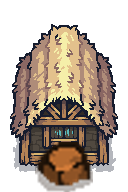
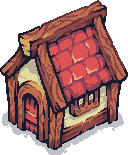
Dorf nach Editor-Layout + Tiefen-Sortierung & Kollision + wandernde Schafe + Reset-Fix + Dev-Cheats + Schmiede-Sprite (mid:6717-6748)

diff --git a/index.html b/index.html
@@ -80,6 +80,17 @@
   #cheatBtn{margin-top:14px;width:100%;cursor:pointer;color:#8fe3b0;background:rgba(18,30,22,.7);
     border:1px dashed #3f7a55;border-radius:10px;padding:9px;font-size:12.5px;font-weight:700}
   #cheatBtn:active{transform:scale(.98)}
+  .devbtn{margin-top:7px;width:100%;cursor:pointer;color:#8fe3b0;background:rgba(18,30,22,.7);border:1px dashed #3f7a55;border-radius:10px;padding:9px;font-size:12.5px;font-weight:700}
+  .devbtn:active{transform:scale(.98)}
+  #devCheats .dh{margin-top:14px;font-size:10px;font-weight:800;letter-spacing:.5px;color:#6fae86;text-transform:uppercase}
+  #confirmOv{position:fixed;inset:0;background:rgba(6,4,14,.7);display:none;align-items:center;justify-content:center;pointer-events:auto;z-index:120;padding:18px}
+  #confirmOv.open{display:flex}
+  #confirmCard{background:#1a2230;border:1px solid #3a4a5e;border-radius:16px;padding:20px;max-width:340px;text-align:center;box-shadow:0 14px 40px rgba(0,0,0,.6)}
+  #confirmMsg{color:#e7eef7;font-size:15px;line-height:1.4;margin-bottom:16px}
+  #confirmBtns{display:flex;gap:10px;justify-content:center}
+  #confirmBtns button{padding:11px 16px;border-radius:10px;font-weight:700;font-size:14px;cursor:pointer;border:1px solid #3a4a5e;background:#222d3a;color:#e7eef7}
+  #confirmYes{background:#c0392b;border-color:#e0584a;color:#fff}
+  #confirmBtns button:active{transform:scale(.97)}
   #achOverlay{position:absolute;inset:0;background:rgba(6,4,14,.62);backdrop-filter:blur(4px);
     display:none;align-items:center;justify-content:center;pointer-events:auto;z-index:20;padding:18px}
   #achOverlay.open{display:flex}
@@ -189,6 +200,7 @@
     <div id="achHead"><span>🏆 Erfolge</span><button id="achClose" title="Schliessen"></button></div>
     <div id="achList"></div>
   </div></div>
+  <div id="confirmOv"><div id="confirmCard"><div id="confirmMsg"></div><div id="confirmBtns"><button id="confirmYes">Ja, neu anfangen</button><button id="confirmNo">Abbrechen</button></div></div></div>
   <div id="charSelect"><div id="charCard">
     <div class="ch-title">Willkommen, Fremder.</div>
     <div class="ch-sub">Der Älteste: „Wähle, wer du sein willst — jede Wahl bleibt dein ganzes Leben."</div>
@@ -479,6 +491,11 @@ function updateCombat(s,dt){ const P=s.player; P.attacking=false;
 const VILLAGE_R=Math.round(280*VS);  // innerer Dorf-KERN (Ring-Weg + Produktionsgebäude) — skaliert mit VS
 const OUTER_R=Math.round(400*VS);    // äußerer Ring-Weg (mid:6176); Band VILLAGE_R..OUTER_R = 12 Turm-Bauplätze — skaliert mit VS
 const TOWER_N=12, TOWER_RAD=Math.round((280+400)/2*VS);   // 12 Turm-Bauplätze im äußeren Ring-Band — skaliert mit VS
+// ----- Dorf-Layout aus s Editor-Entwurf (mid:6717-6730): Gebäude+Deko an exakten Positionen (Offset von BASE in Welt-Px) + Größe (worldSprite size-param) -----
+const VLAYOUT={ base:{dx:-0.6,dy:-16.6}, holz:{dx:63.3,dy:106.4,sz:163}, stein:{dx:116.9,dy:-8.3,sz:163}, juwelier:{dx:-114.7,dy:0.3,sz:161}, waffenkammer:{dx:-60.4,dy:98.1,sz:140}, gold:{dx:-53.7,dy:-98.1,sz:115}, schmiede:{dx:63.9,dy:-112.5,sz:118} };
+const buildPos=b=>{ const L=VLAYOUT[b.type]; return L?{x:BASE.x+L.dx,y:BASE.y+L.dy}:{x:BASE.x,y:BASE.y}; };
+const BASE_STAGE_H=[126,128,131,135,139,143,146];   // Burg-Höhe je Stufe: minimal ansteigend, Anker Stufe 7 = s Größe (mid:6726)
+const VILLAGE_DECO=[{s:"vd_bushe1",dx:116.9,dy:115.0,sz:45.6},{s:"vd_bushe3",dx:60.4,dy:55.0,sz:53.0},{s:"vd_bushe4",dx:-151.4,dy:-47.0,sz:39.2},{s:"vd_bushe4",dx:-116.9,dy:-45.4,sz:31.3},{s:"vd_rock3",dx:150.5,dy:-60.4,sz:41.7},{s:"vd_rock3",dx:157.2,dy:25.9,sz:41.7},{s:"vd_stump2",dx:33.5,dy:-153.7,sz:20.8},{s:"vd_rock1",dx:-108.6,dy:-114.1,sz:60.4},{s:"vd_stump2",dx:125.6,dy:95.8,sz:23.3},{s:"vd_tree1",dx:36.1,dy:141.9,sz:106.0},{s:"vd_tree4",dx:-28.4,dy:58.5,sz:59.1},{s:"vd_bushe3",dx:76.0,dy:62.0,sz:42.3},{s:"vd_tree1",dx:146.3,dy:-70.6,sz:75.5},{s:"vd_bushe1",dx:131.0,dy:48.2,sz:45.6},{s:"vd_bushe1",dx:141.5,dy:59.1,sz:36.3},{s:"vd_rock1",dx:-25.9,dy:-155.0,sz:75.7},{s:"vd_rock1",dx:-49.2,dy:-148.2,sz:34.2},{s:"vd_goldstone",dx:-32.9,dy:-141.9,sz:38.7},{s:"vd_rock1",dx:-21.7,dy:-135.8,sz:60.4},{s:"vd_goldstone",dx:-116.6,dy:-94.2,sz:38.7},{s:"vd_tree4",dx:-145.7,dy:49.8,sz:59.1},{s:"vd_bushe3",dx:-146.6,dy:-69.3,sz:42.3}];
 // Ressourcen/Wasser liegen DRAUSSEN im Land; der erschlossene Land-Radius wächst mit s.areas
 const areaRadius=s=>2000+(((s.areas||1)-1)*600);  // sanftere Erweiterung (mid:6596): 2400,3250,4100,4950 (vorher zu krass +2400/Schritt)
 
@@ -504,8 +521,9 @@ const A={};  // alle fertigen Sprites
 ['era0','era1','era2','era3','era4','era5','era6','sawmill','quarry','worker',
  'hero0','hero1','hero2','hero3','hero4',
  'holz','stein','korn','pilze','gold','beeren','kristall',
- 'deco_mushroom','deco_rock','deco_bush','deco_pumpkin','sheep',
- 'b_holz','b_korn','b_pilze','b_beeren','b_schmiede','b_juwelier','b_waffen'   // eigene Produzenten-Sprites (mid:6317/6346)
+ 'deco_mushroom','deco_rock','deco_bush','deco_pumpkin','sheep','sheep_idle','sheep_move',
+ 'b_holz','b_korn','b_pilze','b_beeren','b_schmiede','b_juwelier','b_waffen',   // eigene Produzenten-Sprites (mid:6317/6346)
+ 'vd_bushe1','vd_bushe3','vd_bushe4','vd_rock1','vd_rock3','vd_stump2','vd_tree1','vd_tree4','vd_goldstone'   // Dorf-Deko aus s Layout (mid:6730)
 ].forEach(k=>{ const i=new Image(); i.src='ts/'+k+'.png'; A[k]=i; });
 // Animierte Held-Sheets (Tiny Swords Warrior, 192px-Frames, 6 Spalten × 8 Reihen). Pro Startcharakter eine Farbe.
 // Animierte Einheiten (Tiny Swords v2 Free Pack): pro (Unit,Farbe) je Anim-Strip (idle/run/atk), 192px-Frames horizontal.
@@ -627,6 +645,11 @@ function collide(s,o,r){ resolve(o,BASE.x,BASE.y,BASE_SOLID+r); for(const ob of 
   const lr=areaRadius(s)-r-6, dB=dist(o.x,o.y,BASE.x,BASE.y);
   if(dB>lr){ o.x=BASE.x+(o.x-BASE.x)/dB*lr; o.y=BASE.y+(o.y-BASE.y)/dB*lr; }
   o.x=Math.max(8,Math.min(WORLD-8,o.x)); o.y=Math.max(8,Math.min(WORLD-8,o.y)); }
+// Held aus Dorf-Gebäuden + großer Deko rausdrücken — kleine Hitboxen am Fuß, läuft drumrum statt durch (mid:6735)
+function villageCollide(s,o,r){
+  resolve(o, BASE.x+VLAYOUT.base.dx, BASE.y+VLAYOUT.base.dy+6, 60+r);                 // Burg (Hitbox etwas größer, mid:6743)
+  for(const b of s.builds){ const p=buildPos(b); resolve(o, p.x, p.y+6, 26+r); }       // Produzenten
+  for(const dd of VILLAGE_DECO){ if(dd.sz<42) continue; resolve(o, BASE.x+dd.dx, BASE.y+dd.dy+dd.sz*SC*0.22, dd.sz*SC*0.20+r); } }   // größere Bäume/Felsen
 // Einheiten-Hitboxen (mid:6613): überlappende mobile Einheiten auseinanderdrücken (Held bleibt fix, schiebt nur andere)
 function separateUnits(s){ const L=[]; const add=(e,r,fix)=>{ if(e&&!e.dead) L.push({e,r,fix:!!fix}); };
   add(s.player,15,true);
@@ -674,7 +697,7 @@ function buildLevel(s){
   s.towerSlots=[]; for(let i=0;i<TOWER_N;i++){ const a=(i+0.5)/TOWER_N*6.2832-Math.PI/2; s.towerSlots.push({x:BASE.x+Math.cos(a)*TOWER_RAD,y:BASE.y+Math.sin(a)*TOWER_RAD,tower:null}); }
   // Dorf-Leben: nur Schafe (Deko-Hütten raus — Häuser kommen als Produktionsgebäude pro Zeitalter)
   s.village=[];
-  for(let i=0;i<4;i++){ const a=rnd(0,6.28),d=rnd(60,VILLAGE_R-95); s.village.push({key:'sheep',x:BASE.x+Math.cos(a)*d,y:BASE.y+Math.sin(a)*d,size:32,wob:rnd(0,6.28)}); }
+  for(let i=0;i<5;i++){ const a=rnd(0,6.28),d=rnd(60,VILLAGE_R-110), x=BASE.x+Math.cos(a)*d, y=BASE.y+Math.sin(a)*d; s.village.push({key:'sheep',x,y,hx:x,hy:y,tx:x,ty:y,moving:false,face:1,animT:rnd(0,3),wt:rnd(1,5),size:36}); }   // wandernde, animierte Schafe (mid:6746)
   s.deco=[];
   // Deko in NATÜRLICHEN KLUMPEN statt gleichmäßigem Streuen (mid:6229): Wäldchen mit großen Bäumen eng zusammen,
   // Felsfelder (viele Brocken + ein paar große solide), Wiesen offener mit Kürbissen/Pilzen. → volle, „gebaute" Karte.
@@ -961,6 +984,9 @@ const game={
     document.getElementById('nameBtn').onclick=()=>this.confirmName();
     document.getElementById('quest').onclick=function(){ this.classList.toggle('expanded'); };   // Ziel ausklappen (mid:6371)
     document.getElementById('resetBtn').onclick=()=>this.reset();
+    document.getElementById('confirmYes').onclick=()=>this.doReset();
+    document.getElementById('confirmNo').onclick=()=>document.getElementById('confirmOv').classList.remove('open');
+    document.getElementById('confirmOv').onclick=e=>{ if(e.target.id==='confirmOv') document.getElementById('confirmOv').classList.remove('open'); };
     document.getElementById('pauseBtn').innerHTML=svg('pause');
     document.getElementById('resetBtn').innerHTML=svg('reset');
     loadAudioPrefs();   // Musik/SFX-Schalter aus localStorage (mid:6471)
@@ -988,8 +1014,17 @@ const game={
     // Cheat-Button nur im Dev-Modus (URL ?dev=1) — normale Spieler sehen ihn nicht; Entwickler nutzt die Dev-URL.
     const DEV=new URLSearchParams(location.search).has('dev');
     const cb=document.getElementById('cheatBtn');
-    if(DEV){ cb.onclick=()=>{ const s=this.s; activeKeys(s.era).forEach(k=>s.store[k]+=50);
-      say('Cheat: +50 auf alle aktuellen Ressourcen.'); this.renderRes(); this.updateShop(); saveGame(s); }; }
+    if(DEV){ const s=this.s, refresh=()=>{ this.renderRes(); this.updateShop(); this.renderTutStep&&this.renderTutStep(); saveGame(s); };
+      cb.onclick=()=>{ activeKeys(s.era).forEach(k=>s.store[k]+=50); say('Cheat: +50 auf alle Ressourcen.'); refresh(); };
+      const wrap=document.createElement('div'); wrap.id='devCheats'; const hd=document.createElement('div'); hd.className='dh'; hd.textContent='🛠 Test-Cheats (nur Dev)'; wrap.appendChild(hd);
+      cb.parentNode.insertBefore(wrap, cb.nextSibling);
+      const endNight=()=>{ if(nightActive(s)){ s.phase='day'; s.enemies=(s.enemies||[]).filter(e=>!e.night); s.baseHP=s.baseHPmax||100; } };
+      const mk=(txt,fn)=>{ const x=document.createElement('button'); x.className='devbtn'; x.textContent=txt; x.onclick=()=>{ fn(); refresh(); }; wrap.appendChild(x); };
+      mk('💰 +50.000 auf alle Ressourcen', ()=>{ activeKeys(s.era).forEach(k=>s.store[k]=(s.store[k]||0)+50000); say('Cheat: +50.000 Ressourcen.'); });
+      mk('⬆ Stufe +1 (Nacht überspringen)', ()=>{ endNight(); if(s.era<ERAS.length-1){ s.era++; const e=ERAS[s.era]; if(e.gather)s.gather+=e.gather; s.nightToken=true; say('Cheat: Stufe '+(s.era+1)+'.'); } else say('Schon auf Stufe 7.'); });
+      mk('🏰 Sprung ins Late Game (Stufe 7 + alle Gebäude)', ()=>{ endNight(); s.era=ERAS.length-1; s.nightToken=true; let g=0; ERAS.forEach(e=>{ if(e.gather)g=e.gather; }); s.gather=Math.max(s.gather,g); activeKeys(s.era).forEach(k=>s.store[k]=(s.store[k]||0)[phone redacted]); for(let i=0;i<8;i++)this.buy('build'); for(let i=0;i<5;i++)this.buy('buildpost'); say('Cheat: Late Game — Stufe 7, alle Gebäude gebaut.'); });
+      mk('🌙 Nacht überstehen', ()=>{ endNight(); s.nightToken=true; say('Cheat: Nacht übersprungen — du kannst aufsteigen.'); });
+    }
     else { cb.style.display='none'; }
     this.loop=this.loop.bind(this); requestAnimationFrame(this.loop);
     if(welcome) say('Willkommen zurück! In '+humanDur(welcome.mins)+' abwesend: '+welcome.txt+'.');
@@ -998,7 +1033,8 @@ const game={
   },
   resize(){ this.dpr=Math.min(window.devicePixelRatio||1,2); this.vw=window.innerWidth; this.vh=window.innerHeight;
     cv.style.width=this.vw+'px'; cv.style.height=this.vh+'px'; cv.width=Math.round(this.vw*this.dpr); cv.height=Math.round(this.vh*this.dpr); },
-  reset(){ if(!confirm('Wirklich neu anfangen? Aller Fortschritt weg.'))return; clearSave(); this.s=freshState(); this.buildShop(); this.showIntro(); },
+  reset(){ document.getElementById('confirmMsg').textContent='Wirklich neu anfangen? Aller Fortschritt geht verloren.'; document.getElementById('confirmOv').classList.add('open'); },   // eigene Ja/Nein-Abfrage (mid:6748: natives confirm war auf iOS unzuverlässig)
+  doReset(){ document.getElementById('confirmOv').classList.remove('open'); document.getElementById('menuItems').classList.remove('open'); document.getElementById('panel').classList.remove('open'); clearSave(); this.s=freshState(); this.s.paused=false; this.buildShop(); this.showIntro(); },
   toggle(){ this.s.paused=!this.s.paused; document.getElementById('pauseBtn').innerHTML=svg(this.s.paused?'play':'pause'); },
   setTab(t){ this.tab=t; if(t==='dorf') this.s.tutMenu=true;   // Tutorial-Schritt 4 (mid:6450)
     for(const b of document.querySelectorAll('#tabs button')) b.classList.toggle('on',b.dataset.tab===t); this.buildShop(); },
@@ -1096,7 +1132,7 @@ const game={
 
   step(dt){ const s=this.s; s.playSec+=dt;
     const psp=onSand(s,s.player.x,s.player.y)?s.speed*0.55:s.speed;  // Sand bremst (mid:6060)
-    moveToward(s.player,s.player.tx,s.player.ty,psp,dt); collide(s,s.player,PR);
+    moveToward(s.player,s.player.tx,s.player.ty,psp,dt); collide(s,s.player,PR); villageCollide(s,s.player,PR);
     // Animation: Laufen vs Idle + Blickrichtung (fürs animierte Warrior-Sheet)
     s.player.moving = dist(s.player.x,s.player.y,s.player.tx,s.player.ty)>4;
     if(s.player.moving){ const dx=s.player.tx-s.player.x; if(Math.abs(dx)>2) s.player.face=dx<0?-1:1; }
@@ -1118,7 +1154,7 @@ const game={
     // Produktionsgebäude (passives Einkommen, skaliert mit Tempo/Menge/Arbeitern); Konverter ziehen Input ab
     for(const b of s.builds){ produce(s,b,dt); }
     s.autoAcc+=dt; if(s.autoAcc>2.2){ s.autoAcc=0;
-      for(const b of s.builds){ const r=buildRate(s,b)*2.2; if(r>=1){ const p=s.segSlots[b.seg], res=BUILD_TYPES[b.type].res;
+      for(const b of s.builds){ const r=buildRate(s,b)*2.2; if(r>=1){ const p=buildPos(b), res=BUILD_TYPES[b.type].res;
         addPop(s,p.x,p.y-24,COL[res],'+'+r.toFixed(0)); } } }
     // Sack leert ins Lager, sobald man die Dorfgrenze übertritt (agiler — kein Trek bis zur Burg)
     if(dist(s.player.x,s.player.y,BASE.x,BASE.y)<OUTER_R){ const had=carryTotal(s.player.carry);
@@ -1126,6 +1162,9 @@ const game={
         addPop(s,s.player.x,s.player.y-30,'#fff','+'+Math.floor(had)); burst(s,s.player.x,s.player.y-12,'#ffe9a8',Math.min(18,4+Math.floor(had/2))); SFX.deposit();
         if(!s.firstDeposit){ s.firstDeposit=true; say('Erste Lieferung! Der Sack leert sich automatisch, sobald du das Dorf betrittst.'); } } }
     updateFreeWalkers(s,dt);  // freie Arbeiter farmen selbstständig in Dorfnähe; zugewiesene sind Boost-Pawns an den Hütten
+    if(s.village) for(const v of s.village){ if(v.key!=='sheep')continue; v.animT+=dt; v.wt-=dt;   // wandernde Schafe (mid:6746)
+      if(v.moving){ if(dist(v.x,v.y,v.tx,v.ty)<3||v.wt<=0){ v.moving=false; v.wt=rnd(2.5,6); } else { v.face=(v.tx<v.x)?-1:1; moveToward(v,v.tx,v.ty,24,dt); } }
+      else if(v.wt<=0){ const a=rnd(0,6.28),dd=rnd(25,80); v.tx=v.hx+Math.cos(a)*dd; v.ty=v.hy+Math.sin(a)*dd; v.moving=true; v.wt=rnd(2,4); } }
     updateCombat(s,dt);       // Overworld-Gegner (Tag-Phase) + Held-Auto-Angriff + HP/Tod
     updateTroops(s,dt);       // Turm-Einheiten (mid:6357/6359)
     separateUnits(s);         // Einheiten-Hitboxen: Freund+Feind stapeln sich nicht (mid:6613)
@@ -1184,7 +1223,7 @@ const game={
         const cx=gx+CELL/2, cy=gy+CELL/2; if(dist(cx,cy,BASE.x,BASE.y)>lr) continue;
         const bk=biomeAt(s,cx,cy); ctx.fillStyle=BIOMES[bk].ground; ctx.fillRect(gx,gy,CELL+1,CELL+1); } }
     // (Plateaus entfernt mid:6531 — echtes Höhensystem mit Treppen/Kollision kommt mit dem Paid-Pack-Terrain)
-    ctx.fillStyle=this._gp||'#5fa148'; ctx.beginPath(); ctx.arc(BASE.x,BASE.y,OUTER_R+10,0,Math.PI*2); ctx.fill();   // Dorf-Boden neutral bis zur äußeren Linie
+    // Dorf-Rasen-Kreis entfernt (mid:6727): das generierte Terrain (biome ground oben) scheint durch, Wege+Gebäude liegen drauf
     ctx.fillStyle=this._sp||'#d8c08a'; ctx.globalAlpha=0.92; for(const B of s.sand){ if(dist(B.x,B.y,BASE.x,BASE.y)<lr+B.r){ blobPathCtx(B,1); ctx.fill(); } } ctx.globalAlpha=1;
     // Inland-Seen (mid:6213): Schaum-Rand + Wasser-Textur + Glitzer-Wellen
     ctx.fillStyle='#dff4f0'; for(const L of s.lakes){ if(dist(L.x,L.y,BASE.x,BASE.y)>lr+L.r) continue; blobPathCtx(L,1.05); ctx.fill(); }   // See-Schaum
@@ -1207,32 +1246,41 @@ const game={
     ctx.strokeStyle='rgba(238,251,248,.5)'; ctx.lineWidth=5; ctx.beginPath(); ctx.arc(BASE.x,BASE.y,lr,0,Math.PI*2); ctx.stroke();
     ctx.strokeStyle='rgba(180,228,228,.28)'; ctx.lineWidth=12; ctx.beginPath(); ctx.arc(BASE.x,BASE.y,lr+8,0,Math.PI*2); ctx.stroke();
     // Dorf-Deko (Häuser/Schafe) für Leben
-    for(const v of s.village){ if(!vis(v.x,v.y))continue; shadow(v.x,v.y,v.size*0.32,v.size*0.12); worldSprite(v.key,v.x,v.y,v.size,true); }
+    for(const v of s.village){ if(!vis(v.x,v.y))continue; shadow(v.x,v.y,v.size*0.32,v.size*0.12);   // animierte, laufende Schafe (mid:6746)
+      const im=A[v.moving?'sheep_move':'sheep_idle']; if(im&&im.complete&&im.naturalWidth){ const fh=im.naturalHeight, fr=Math.max(1,Math.round(im.naturalWidth/fh)), col=Math.floor(v.animT*8)%fr, dw=v.size*SC*2.0;
+        ctx.save(); if(v.face<0){ ctx.translate(v.x,0); ctx.scale(-1,1); ctx.translate(-v.x,0); } ctx.drawImage(im,col*fh,0,fh,fh, v.x-dw/2, v.y-dw*0.86, dw, dw); ctx.restore();
+      } else worldSprite(v.key,v.x,v.y,v.size,true); }
     // Natur-Deko (Bäume/Felsen/Pilze) — nur auf der erschlossenen Insel (unerschlossenes liegt im Wasser)
     for(const d of s.deco){ if(!vis(d.x,d.y))continue; if(dist(d.x,d.y,BASE.x,BASE.y)>lr-8)continue; shadow(d.x,d.y,d.size*0.34,d.size*0.13); worldSprite(d.key,d.x,d.y,d.size,true); }
     if(s.bushes) for(const b of s.bushes){ if(!vis(b.x,b.y))continue; if(dist(b.x,b.y,BASE.x,BASE.y)>lr-8)continue; const im=BUSH[b.bi];   // animierte Sträucher (mid:6503)
       if(!im||!im.complete||!im.naturalWidth)continue; const fw=im.naturalHeight, fr=Math.max(1,Math.round(im.naturalWidth/fw)), col=Math.floor(this.animT*5+b.t*7)%fr;
       const sc=b.sz*SC/fw*1.7, dw=fw*sc; shadow(b.x,b.y,b.sz*SC*0.34,b.sz*SC*0.12); ctx.drawImage(im,col*fw,0,fw,fw,b.x-dw/2,b.y-dw*0.84,dw,dw); }
-    // base + era-Gebäude (unten verankert)
-    const _be=Math.min(6,s.era), BSZ=[104,120,138,158,180,202,226];   // Basis wächst mit der Stufe (mid:6678): höhere Stufe wirkt größer
-    shadow(BASE.x,BASE.y+22*VS,40+_be*5,12+_be*2.4); worldSprite('era'+_be, BASE.x, BASE.y+26*VS, BSZ[_be], true); label(ERAS[s.era].name, BASE.x, BASE.y-94*VS);   // Basis-Sprites era0-6: eigene Burg pro Stufe (mid:6677), kein Clamp mehr
+    // Dorf-Objekte (s Deko + Gebäude + Basis) sammeln, y-SORTIEREN und zeichnen (mid:6746): Sachen weiter unten = vorne → kein Baum mehr in der Burg
+    const vocc=[];
+    for(const dd of VILLAGE_DECO){ const x=BASE.x+dd.dx, y=BASE.y+dd.dy; if(!vis(x,y))continue; const im=A[dd.s]; if(!(im&&im.complete&&im.naturalWidth))continue;
+      const asp=im.naturalWidth/im.naturalHeight, rh=(asp>1?dd.sz*SC/asp:dd.sz*SC); vocc.push({fy:y+rh*0.5,x,y,sz:dd.sz,sp:dd.s,shdy:rh*0.42,shrx:rh*0.42,shry:rh*0.16}); }
+    const _be=Math.min(6,s.era), _bp=buildPos({type:'base'}), _H=BASE_STAGE_H[_be], _bi=A['era'+_be], _asp=(_bi&&_bi.naturalWidth)?_bi.naturalWidth/_bi.naturalHeight:1, _bw=_H*Math.min(_asp,2);
+    vocc.push({fy:_bp.y+_H*0.5,x:_bp.x,y:_bp.y,sz:(_asp>1?_H*_asp:_H)/SC,sp:'era'+_be,shdy:_H*0.5,shrx:_bw*0.42,shry:_bw*0.16,label:ERAS[s.era].name,laby:_bp.y-_H*0.5-14});
+    for(const b of s.builds){ const p=buildPos(b),T=BUILD_TYPES[b.type],sz=(VLAYOUT[b.type]||{}).sz||150; if(!vis(p.x,p.y))continue;
+      const _im=A[T.sprite],_a=(_im&&_im.naturalWidth)?_im.naturalWidth/_im.naturalHeight:1,_rh=(_a>1?sz*SC/_a:sz*SC); vocc.push({fy:p.y+_rh*0.5,x:p.x,y:p.y,sz,sp:T.sprite,shdy:_rh*0.46,shrx:_rh*0.5,shry:_rh*0.18,label:T.name,laby:p.y-_rh*0.5-12,workers:b.workers,rh:_rh}); }
+    vocc.sort((a,b)=>a.fy-b.fy);
+    for(const o of vocc){ shadow(o.x,o.y+o.shdy,o.shrx,o.shry); worldSprite(o.sp,o.x,o.y,o.sz,false); }   // y-sortiert
+    for(const o of vocc){ if(o.label) label(o.label,o.x,o.laby);
+      if(o.workers) for(let i=0;i<Math.min(o.workers,4);i++){ const wx=o.x-34*VS+i*26*VS, wy=o.y+o.rh*0.5+10*VS; shadow(wx,wy,12,4); drawUnit('pawn_blue','idle',this.animT+i*0.5,wx,wy,60,false); } }
+    this._vocc=vocc;   // für die Tiefen-Verdeckung nach dem Held (mid:6735)
     if(nightActive(s)&&s.pois) for(let pi=0;pi<s.pois.length;pi++){ const poi=s.pois[pi]; if(!vis(poi.x,poi.y))continue;   // Nacht-Fackeln am inneren Ring: echtes Feuer-FX + warmer Glow (mid:6605/6612)
       const fl=0.62+0.38*Math.sin(this.animT*7+pi);
       ctx.save(); ctx.globalCompositeOperation='lighter';
       const g=ctx.createRadialGradient(poi.x,poi.y-18*VS,2, poi.x,poi.y-18*VS, 72*VS*fl); g.addColorStop(0,'rgba(255,186,86,'+(0.42*fl)+')'); g.addColorStop(1,'rgba(255,120,30,0)');
       ctx.fillStyle=g; ctx.beginPath(); ctx.arc(poi.x,poi.y-18*VS,72*VS*fl,0,7); ctx.fill(); ctx.restore();
       const im=FIRE[1+(pi%3)]; if(im&&im.complete&&im.naturalWidth){ const fh=im.naturalHeight, fr=Math.max(1,Math.round(im.naturalWidth/fh)), col=Math.floor(this.animT*10+pi*3)%fr, sz=52*VS; ctx.drawImage(im, col*fh,0,fh,fh, poi.x-sz/2, poi.y-sz, sz, sz); } }
-    // Produktionsgebäude (je in einem Kuchenstück) + zugewiesene Arbeiter-Pawns daneben
-    for(const b of s.builds){ const p=s.segSlots[b.seg], T=BUILD_TYPES[b.type]; if(!vis(p.x,p.y))continue;
-      shadow(p.x,p.y+20*VS,28,9); worldSprite(T.sprite,p.x,p.y,86,false); label(T.name,p.x,p.y-48*VS);   // zentriert auf dem Slot → mittig im Kuchenstück (mid:6350)
-      for(let i=0;i<Math.min(b.workers,4);i++){ const wx=p.x-32*VS+i*26*VS, wy=p.y+30*VS; shadow(wx,wy,12,4); drawUnit('pawn_blue','idle', this.animT+i*0.5, wx, wy, 62, false); } }   // animierter Pawn statt statischem Worker (mid:6576/6582)
     // Außenposten-Sammler (mid:6246): Gebäude + Ressourcen-Marker + Füllbalken; glüht wenn was zum Abholen bereitliegt
     if(s.outposts) for(const o of s.outposts){ if(!vis(o.x,o.y))continue; const T=OUTPOST_TYPES[o.type], cap=outpostCap(o), frac=Math.min(1,(o.store||0)/cap), ready=(o.store||0)>=1;
       if(ready){ ctx.fillStyle='rgba(255,238,150,.18)'; ctx.beginPath(); ctx.ellipse(o.x,o.y+2*VS,40*VS,18*VS,0,0,7); ctx.fill();
         ctx.strokeStyle='rgba(255,238,150,.7)'; ctx.lineWidth=2.5*VS; ctx.beginPath(); ctx.ellipse(o.x,o.y+2*VS,40*VS,18*VS,0,0,7); ctx.stroke(); }
-      shadow(o.x,o.y,32,11); worldSprite(T.sprite,o.x,o.y,96,true); worldSprite(T.res,o.x+30*VS,o.y-56*VS,42,true);
-      const bw=48*VS, bx=o.x-bw/2, by=o.y-66*VS; ctx.fillStyle='rgba(0,0,0,.5)'; rr(bx,by,bw,6*VS,3*VS); ctx.fill(); ctx.fillStyle=COL[T.res]; rr(bx,by,bw*frac,6*VS,3*VS); ctx.fill();
-      label(T.name,o.x,o.y-88*VS); }
+      shadow(o.x,o.y,46,15); worldSprite(T.sprite,o.x,o.y,192,true); worldSprite(T.res,o.x+52*VS,o.y-108*VS,52,true);   // doppelt so groß (mid:6704)
+      const bw=56*VS, bx=o.x-bw/2, by=o.y-128*VS; ctx.fillStyle='rgba(0,0,0,.5)'; rr(bx,by,bw,7*VS,3.5*VS); ctx.fill(); ctx.fillStyle=COL[T.res]; rr(bx,by,bw*frac,7*VS,3.5*VS); ctx.fill();
+      label(T.name,o.x,o.y-150*VS); }
     // Türme/Bauplätze im äußeren Ring (mid:6357): gebauter Turm = Standarte am Posten; freier Slot = "+" wenn Waffenkammer steht
     if(s.towerSlots) for(let si=0;si<s.towerSlots.length;si++){ const ts=s.towerSlots[si]; if(!vis(ts.x,ts.y))continue; const tw=towerAt(s,si);
       if(tw){ const col={kaempfer:'#c0392b',bogen:'#7a4fd0',lance:'#3a78d0',monk:'#3aa84a'}[tw.type]||'#888';
@@ -1290,6 +1338,12 @@ const game={
       if(s.player.invT>0) ctx.globalAlpha = 0.4+0.3*Math.sin(this.animT*18);
       drawUnit(CHARS[s.char].unit, anim, this.animT, s.player.x, s.player.y+6, 106*(1+(s.era||0)*0.05), s.player.face<0);   // Held wächst pro Stufe (mid:6611)
       ctx.globalAlpha=1; }
+    // Tiefen-Verdeckung (mid:6735): Dorf-Objekte, die VOR dem Held stehen (größeres Fuß-y) und ihn überlappen, nochmal über ihn zeichnen → Held wird verdeckt wenn er dahinter läuft
+    { const P=s.player, hfy=P.y+6;
+      if(this._vocc) for(const o of this._vocc){ if(o.fy<=hfy)continue; const hw=o.sz*SC*0.55+24, hh=o.sz*SC*0.7+30; if(Math.abs(o.x-P.x)<hw && Math.abs(o.y-P.y)<hh) worldSprite(o.sp,o.x,o.y,o.sz,false); }
+      // Whole-Map-Tiefe (mid:6746): Karten-Bäume/Felsen + Ressourcen-Knoten, die vor dem Held stehen, nochmal über ihn (nur nahe dem Held → günstig)
+      for(const d of s.deco){ if(d.y<=hfy)continue; if(Math.abs(d.x-P.x)<d.size*SC*0.6+22 && Math.abs(d.y-P.y)<d.size*SC*0.95+30) worldSprite(d.key,d.x,d.y,d.size,true); }
+      for(const n of s.nodes){ const ny=n.y+6*VS; if(ny<=hfy)continue; const ns=(NODE_SIZE[n.type]||64)*(0.7+0.3*(n.scale||1)); if(Math.abs(n.x-P.x)<ns*SC*0.6+22 && Math.abs(ny-P.y)<ns*SC*0.95+30) worldSprite(n.type,n.x,ny,ns,true); } }
     // Held-HP-Balken (im Kampf oder wenn verletzt)
     if(s.player.hp<s.player.hpmax || s.enemies.length){ const w=46,f=Math.max(0,s.player.hp/s.player.hpmax);
       ctx.fillStyle='rgba(0,0,0,.6)'; rr(s.player.x-w/2,s.player.y-66,w,6,3); ctx.fill();
@@ -1518,7 +1572,7 @@ function endPointer(){ if(!pDown) return;
     const heroInVillage=dist(s.player.x,s.player.y,BASE.x,BASE.y)<OUTER_R+10;
     // Hütte angetippt? (nur wenn Held im Dorf ist) → Hütten-Panel
     let hutIdx=-1, hutD=70;
-    if(heroInVillage&&s.segSlots) for(let i=0;i<s.builds.length;i++){ const sl=s.segSlots[s.builds[i].seg]; if(!sl)continue; const d=dist(p.x,p.y,sl.x,sl.y); if(d<hutD){ hutD=d; hutIdx=i; } }
+    if(heroInVillage) for(let i=0;i<s.builds.length;i++){ const sl=buildPos(s.builds[i]); if(!sl)continue; const d=dist(p.x,p.y,sl.x,sl.y); if(d<hutD){ hutD=d; hutIdx=i; } }
     // Außenposten angetippt (nur wenn der Held nah dran ist) → Außenposten-Panel (mid:6246)
     let opIdx=-1, opD=46;   // ENGE Hitbox auf dem Gebäude-Körper (mid:6276): nah vorbeilaufen ohne Menü; Tap aufs Gebäude öffnet Panel (unabhängig von Held-Position, mid:6261)
     if(s.outposts) for(let i=0;i<s.outposts.length;i++){ const o=s.outposts[i], d=dist(p.x,p.y,o.x,o.y-31); if(d<opD){ opD=d; opIdx=i; } }   // -31 = Gebäude-Mitte (Sprite ist fußverankert)
@@ -1530,7 +1584,7 @@ function endPointer(){ if(!pDown) return;
     const P=s.player, NEAR=88, heroNear=(x,y)=>dist(P.x,P.y,x,y)<NEAR;
     if(opIdx>=0 && heroNear(s.outposts[opIdx].x,s.outposts[opIdx].y-31)){ game.openPanelFor('op'+opIdx); }
     else if(tsIdx>=0 && heroNear(s.towerSlots[tsIdx].x,s.towerSlots[tsIdx].y)){ game.openPanelFor((towerAt(s,tsIdx)?'tw':'tb')+tsIdx); }
-    else if(hutIdx>=0 && heroNear(s.segSlots[s.builds[hutIdx].seg].x,s.segSlots[s.builds[hutIdx].seg].y)){ game.openPanelFor(hutIdx); }
+    else if(hutIdx>=0){ const _bp=buildPos(s.builds[hutIdx]); if(heroNear(_bp.x,_bp.y)) game.openPanelFor(hutIdx); }
     else if(tappedBase && heroNear(BASE.x,BASE.y)){ if(panel.classList.contains('open')&&game.panelFor==='castle') panel.classList.remove('open'); else game.openPanelFor('castle'); }
     else moveTo(p); }
   pDown=null; game.dragging=false; }